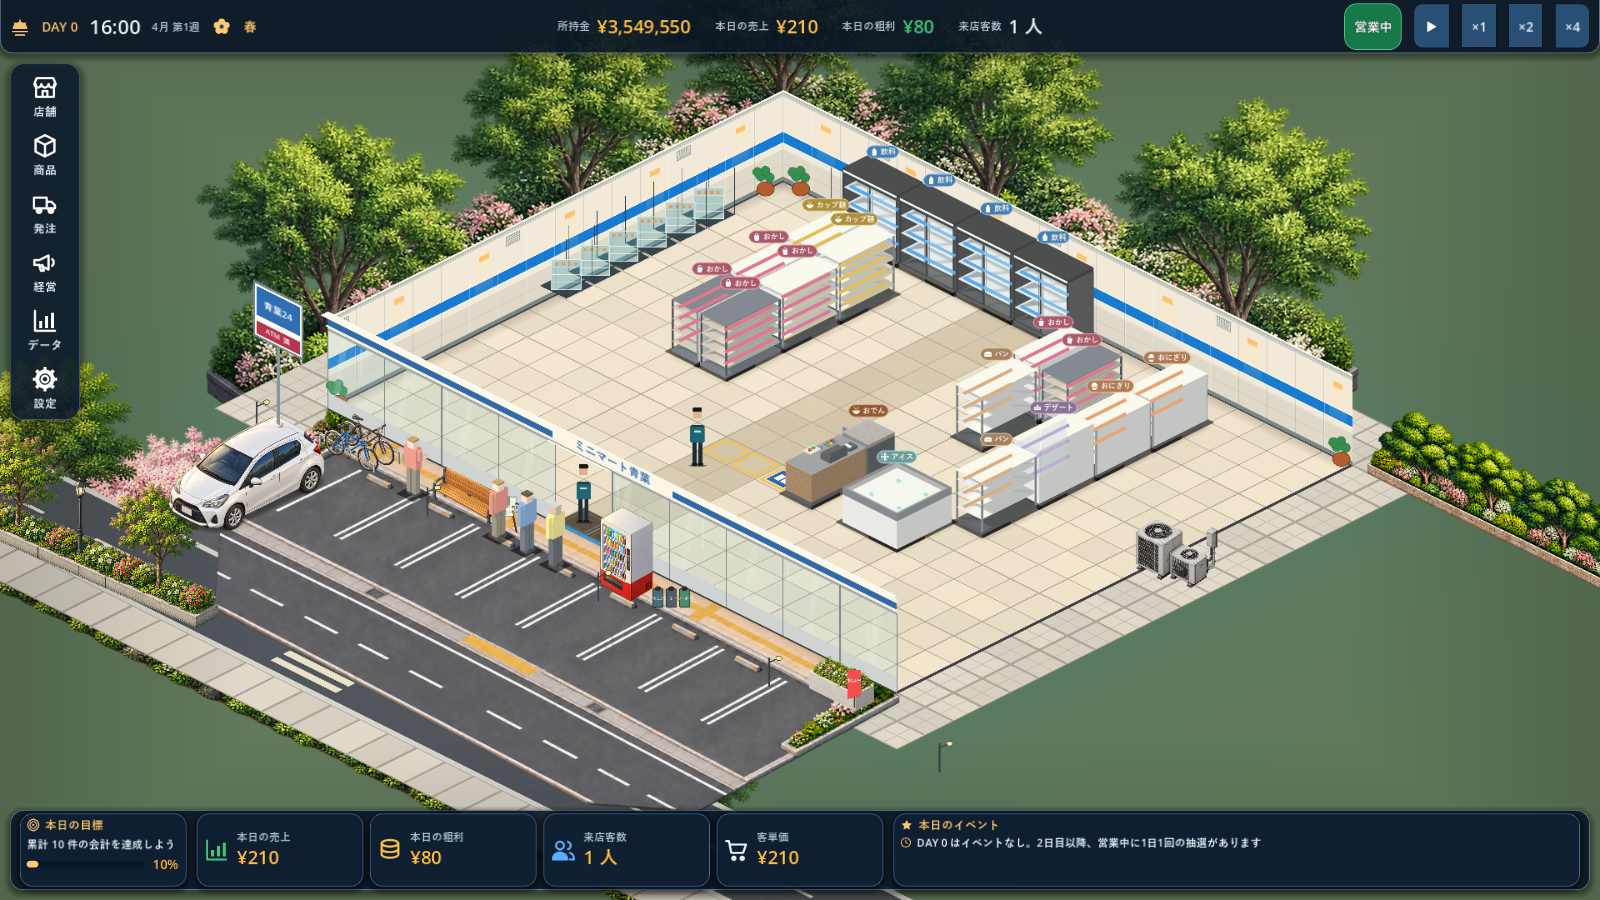
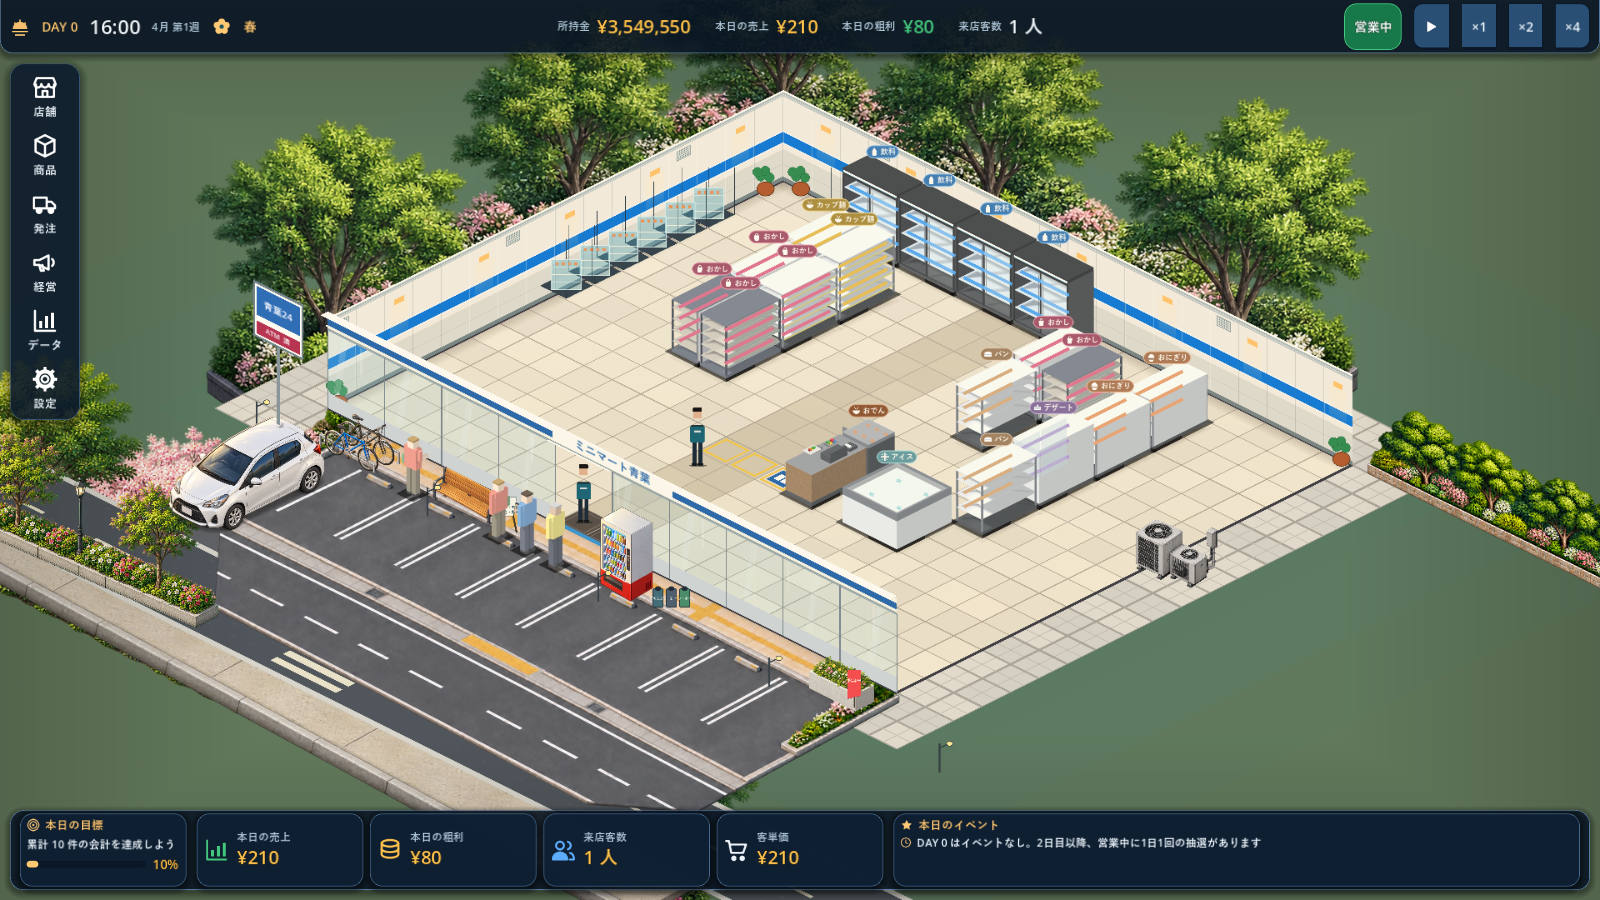
Use generated continuous outer sidewalk strip

Changed region(s): [[0.0, 0.6222, 0.3438, 0.9022], [0.3438, 0.9644, 0.4688, 1.0]]

diff --git a/docs/qa/exterior-area-a/RESULTS.md b/docs/qa/exterior-area-a/RESULTS.md
@@ -48,18 +48,18 @@ Only these focused suites were run. The full test suite was not run.
 
 ## Ground-anchored grove follow-up (2026-10-29)
 
-The grouped rear-grove PNG is fitted uniformly from its authored ground-contact endpoints to world-ground endpoints outside the road and outer sidewalk. The wall, roadway, and sidewalk are painted afterward, so the trunk bases can be occluded. The continuous outer sidewalk closes the road edge. The forecourt fill is restricted to the frontage to avoid a broad asphalt wedge at the road end.
+The grouped rear-grove PNG is fitted uniformly from its authored ground-contact endpoints to world-ground endpoints outside the road and outer sidewalk. The wall and roadway are painted afterward, so the trunk bases can be occluded. A generated single-piece sidewalk strip replaces the metre-by-metre outer-walk polygons; its measured centerline endpoints map to the projected world strip for each store size, with a uniform scale. The forecourt fill is restricted to the frontage to avoid a broad asphalt wedge at the road end. Asset anchors and dimensions are recorded in `assets/generated/backgrounds/outer_sidewalk_strip_v1/asset.json`.
 
 Actual runtime captures at 1600x900:
 
 | Store size | Capture | Observation |
 |---|---|---|
 | 12x10 | `grove-sidewalk-12x10-1600x900-2026-10-29.png` | Grove roots stay behind the road edge and wall; canopies remain above the rear wall. Capture landed in the game's construction/preparation state, so it is geometry evidence, not a business-running comparison. |
-| 16x12 | `current-grove-sidewalk-final-1600x900-16x12-2026-10-29.png` | Continuous sidewalk and rooted grove visible; wall occludes the lower planting. |
-| 20x16 | `grove-sidewalk-20x16-1600x900-2026-10-29.png` | Both rear branches and the roadside strip reach the store ends without a visible root gap. |
-| 20x16, zoomed and panned | `grove-sidewalk-panzoom-20x16-2026-10-29.png` | Ground-anchored planting follows the camera; no wall gap appears during the changed view. |
+| 16x12 | `grove-sidewalk-16x12-1600x900-2026-10-29.png` | Generated sidewalk strip and rooted grove visible; wall occludes the lower planting. |
+| 20x16 | `grove-sidewalk-20x16-1600x900-2026-10-29.png` | Both rear branches and the generated sidewalk strip reach the store ends without a visible root gap. |
+| 20x16, zoomed and panned | `grove-sidewalk-panzoom-20x16-2026-10-29.png` | Ground-anchored planting and sidewalk follow the camera; no wall gap appears during the changed view. |
 
-Focused placement checks cover all four sides for 12x10, 16x12, and 20x16 and assert both planting endpoints against projected world positions. `test_backdrop_layer` currently passes 16 tests / 137 assertions. The 16x12 and 20x16 captures show the running business state; the 12x10 capture is explicitly limited to geometry evidence because the capture helper left the store in preparation state.
+Focused placement checks cover all four sides for 12x10, 16x12, and 20x16 and assert both planting and sidewalk endpoints against projected world positions. `test_backdrop_layer` currently passes 17 tests / 173 assertions. The 16x12 and 20x16 captures show the running business state; the 12x10 capture is explicitly limited to geometry evidence because the capture helper left the store in preparation state.
 
 ## Remaining differences from the target mockup
 
